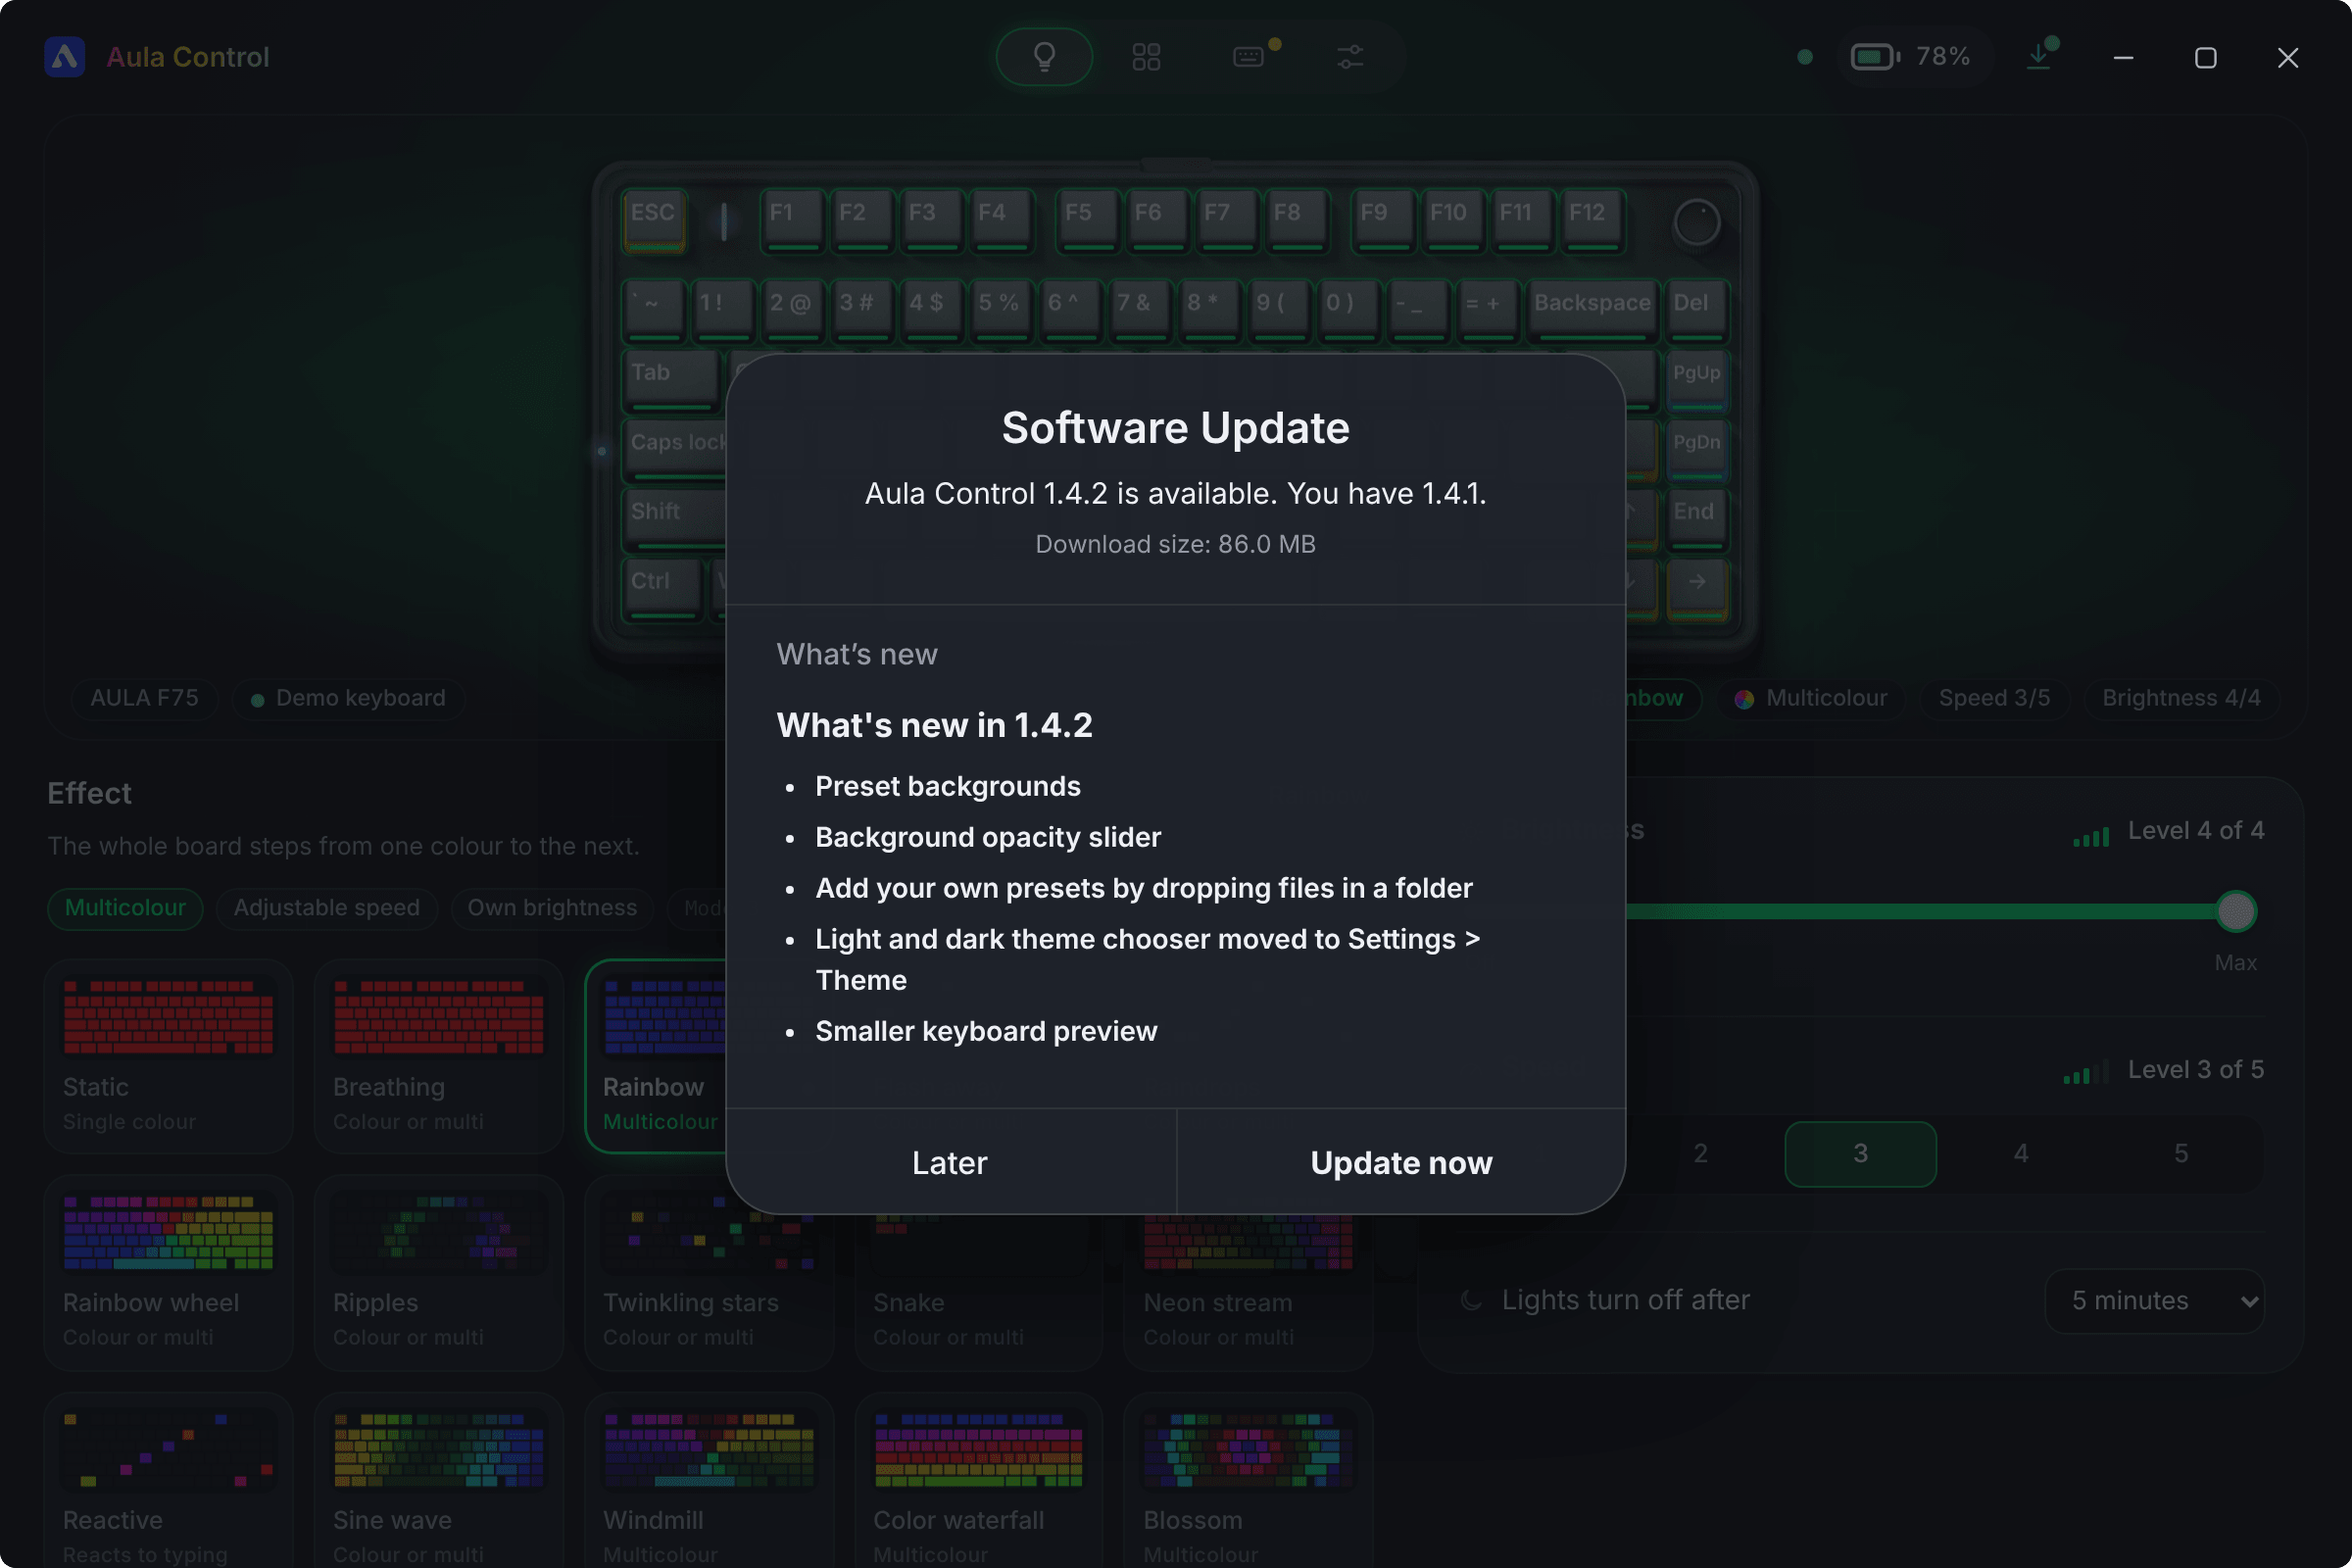
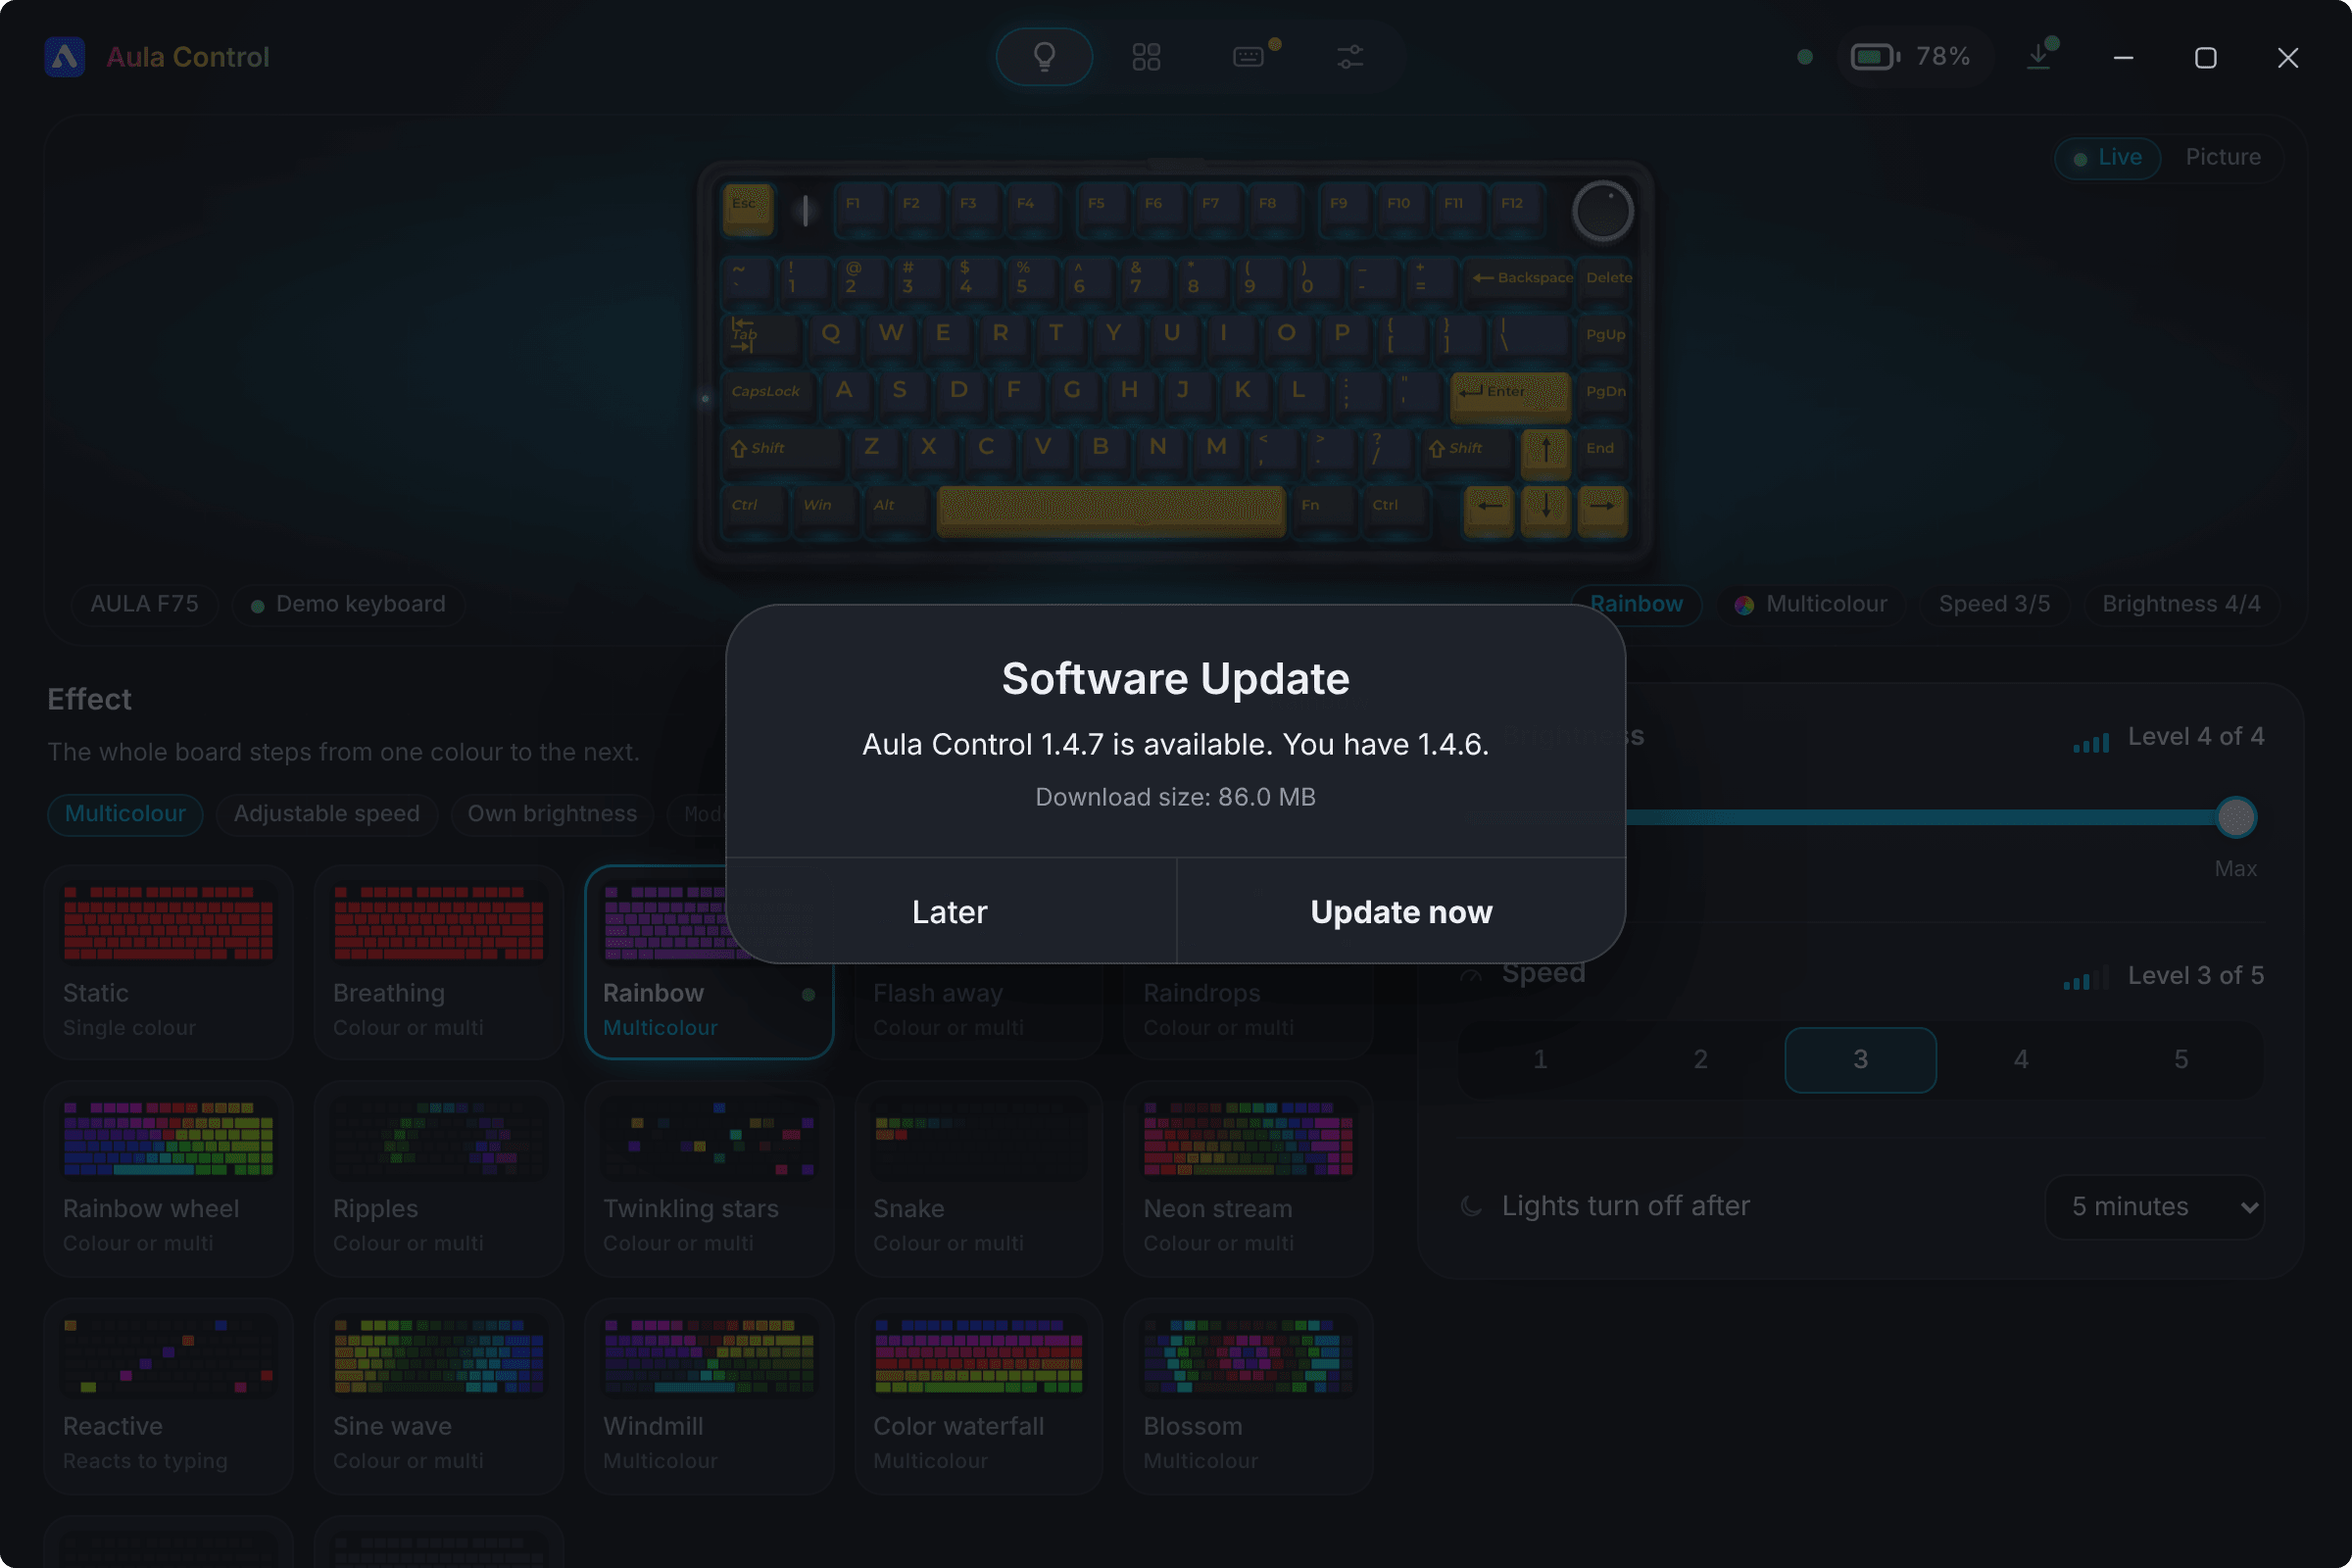
Unpack aula-control-v1_4_7.zip

diff --git a/src/js/update.js b/src/js/update.js
@@ -11,7 +11,7 @@
 
   const $ = (s) => document.querySelector(s);
   const box = $('#upd');
-  let info = null; // the update on offer: { version, current, notes, mode, size }
+  let info = null; // the update on offer: { version, current, mode, size } (the dialog shows no release notes)
   let phase = 'closed'; // closed | offer | downloading | ready | installing | error
 
   // The update icons (header, and the start and device screens): visible whenever a newer version is known.
@@ -29,51 +29,6 @@
   for (const b of badges) b.addEventListener('click', () => latest && show(latest));
 
   const mb = (n) => `${(n / 1048576).toFixed(n >= 104857600 ? 0 : 1)} MB`;
-
-  // A small, safe subset of Markdown for the release notes: headings, bullets, **bold**, paragraphs. Built with
-  // textContent only, so nothing in a release description can inject markup. Images and links are reduced to their text.
-  function inline(parent, text) {
-    const clean = text.replace(/!\[[^\]]*\]\([^)]*\)/g, '').replace(/\[([^\]]+)\]\([^)]*\)/g, '$1').replace(/`/g, '');
-    clean.split(/(\*\*[^*]+\*\*)/).forEach((part) => {
-      if (!part) return;
-      if (/^\*\*[^*]+\*\*$/.test(part)) {
-        const b = document.createElement('b');
-        b.textContent = part.slice(2, -2);
-        parent.append(b);
-      } else parent.append(part);
-    });
-  }
-
-  function renderNotes(target, md) {
-    target.textContent = '';
-    let list = null;
-    for (const raw of String(md || '').split(/\r?\n/)) {
-      const line = raw.trim();
-      if (!line) {
-        list = null;
-        continue;
-      }
-      const bullet = /^[-*+]\s+(.*)$/.exec(line);
-      const head = /^#{1,6}\s+(.*)$/.exec(line);
-      if (bullet) {
-        if (!list) target.append((list = document.createElement('ul')));
-        const li = document.createElement('li');
-        inline(li, bullet[1]);
-        list.append(li);
-      } else {
-        list = null;
-        const n = document.createElement(head ? 'h4' : 'p');
-        inline(n, head ? head[1] : line);
-        target.append(n);
-      }
-    }
-    if (!target.firstChild) {
-      const p = document.createElement('p');
-      p.className = 'none';
-      p.textContent = 'No release notes were written for this version.';
-      target.append(p);
-    }
-  }
 
   function actions(list) {
     const row = $('#updActions');
@@ -105,7 +60,6 @@
     const page = info.mode === 'page';
     $('#updSub').textContent = `Aula Control ${info.version} is available. You have ${info.current}.${page ? ' Open the download page to get it.' : ''}`;
     $('#updMeta').textContent = !page && info.size ? `Download size: ${mb(info.size)}` : '';
-    $('#updBody').hidden = false;
     bar(null);
     const focus = actions([
       { label: 'Later', run: () => close(true) },
@@ -119,7 +73,6 @@
     phase = 'ready';
     $('#updSub').textContent = `Aula Control ${info.version} has been downloaded. Install it now? Aula Control closes and opens again when it is done.`;
     $('#updMeta').textContent = '';
-    $('#updBody').hidden = false;
     bar(null);
     const focus = actions([
       { label: 'Later', run: () => close(true) },
@@ -149,7 +102,6 @@
     phase = 'error';
     $('#updSub').textContent = message || 'The update did not work.';
     $('#updMeta').textContent = '';
-    $('#updBody').hidden = false;
     bar(null);
     actions([
       { label: 'Close', run: () => close(true) },
@@ -160,8 +112,6 @@
   function show(next) {
     if (phase !== 'closed' || !next) return; // never replace a dialog that is already open
     info = next;
-    renderNotes($('#updNotes'), info.notes);
-    $('#updBody').scrollTop = 0;
     box.hidden = false;
     offer();
   }

diff --git a/test/linux.test.js b/test/linux.test.js
@@ -59,8 +59,10 @@ test('the workflow unpacks the zip into main, builds Windows and Linux, releases
   assert.match(wf, /dist\/\*\.exe/);
   assert.match(wf, /dist\/\*\.AppImage/);
   assert.match(wf, /dist\/\*\.deb/);
+  assert.match(wf, /dist\/\*\.tar\.gz/, 'the Linux .tar.gz goes on the release with the AppImage and the .deb');
   assert.match(wf, /linux\/99-aula-control\.rules/);
-  assert.match(wf, /--notes-file RELEASE_NOTES\.md/);
+  assert.match(wf, /printf "## What's new in %s\\n" "\$VERSION"/, 'the release text is only the header of this version');
+  assert.doesNotMatch(wf, /--notes-file RELEASE_NOTES\.md/, 'the older sections of RELEASE_NOTES.md must not become the release text');
   assert.match(wf, /git push origin dev/);
   assert.match(wf, /git rm -q "\$ZIP"/);
 });

diff --git a/src/index.html b/src/index.html
@@ -599,10 +599,6 @@
         <div class="upd-bar" id="updBar" hidden aria-hidden="true"><i id="updFill"></i></div>
         <p class="upd-meta" id="updMeta"></p>
       </div>
-      <div class="upd-body" id="updBody">
-        <h3>What’s new</h3>
-        <div class="upd-notes" id="updNotes"></div>
-      </div>
       <div class="upd-actions" id="updActions"></div>
     </div>
   </div>
